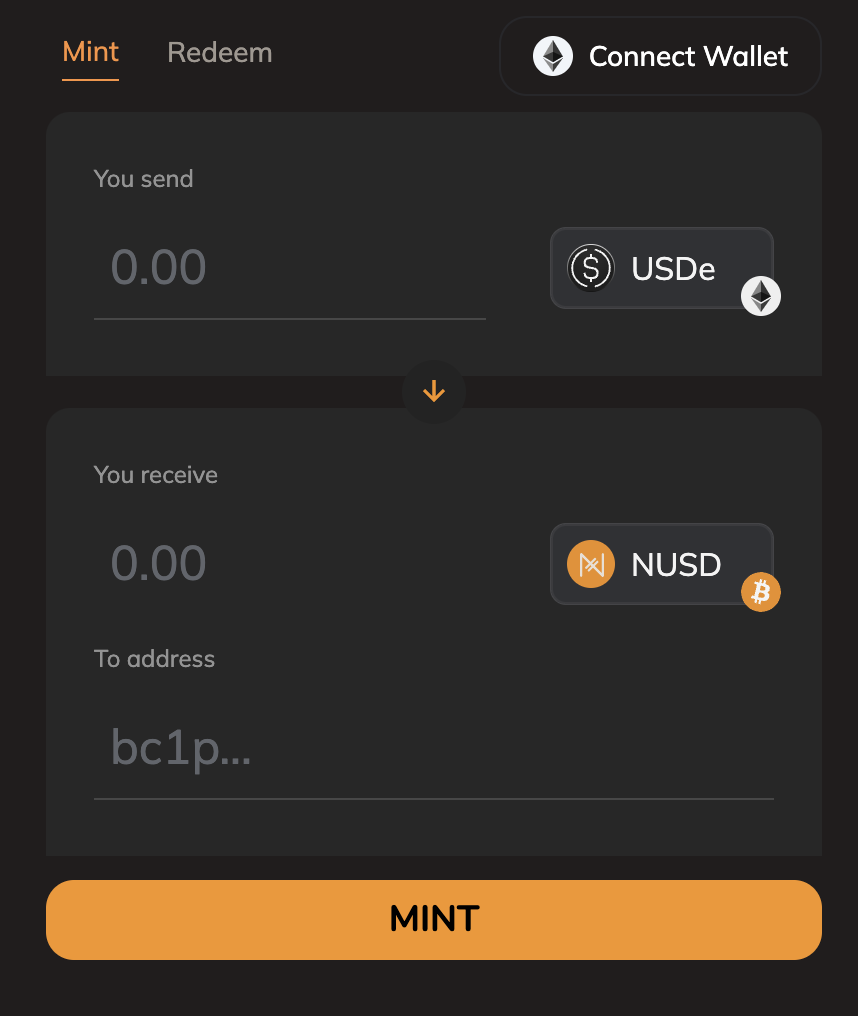
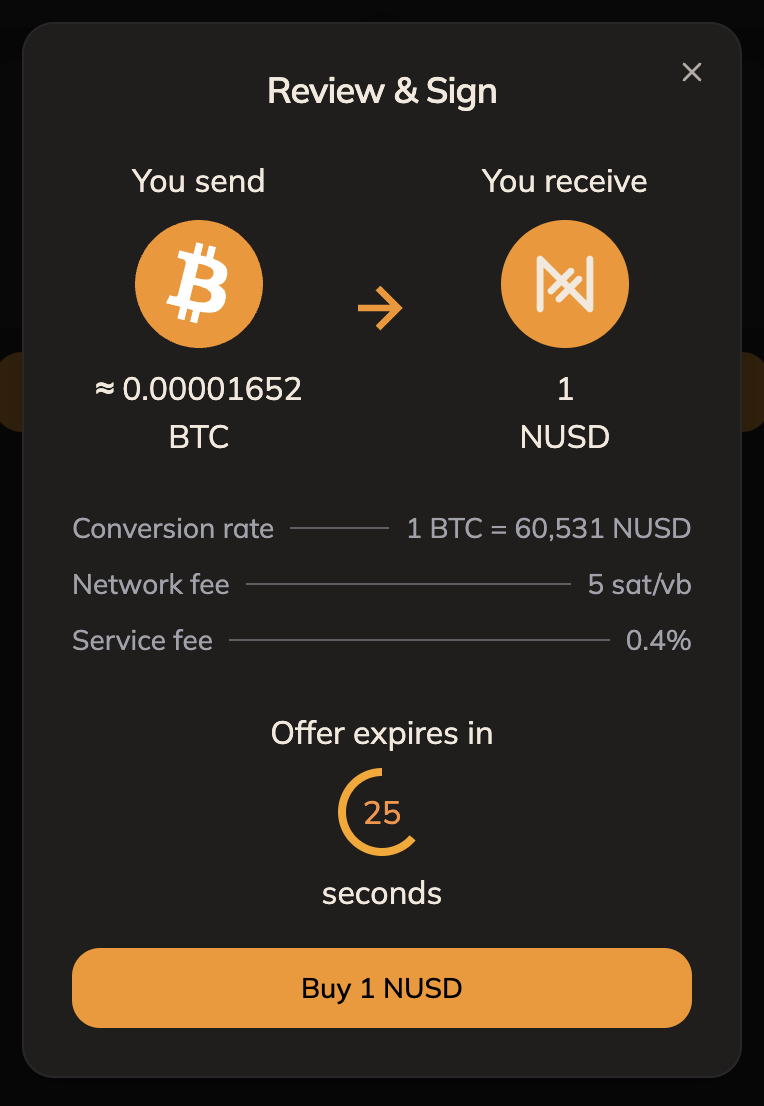
GITBOOK-81: No subject

diff --git a/roadmap/minting-and-redeeming.md b/roadmap/minting-and-redeeming.md
@@ -1,16 +1,18 @@
 # Minting & Redeeming
 
-Bamk.fi will open minting and redemptions for all onchain users.&#x20;
+## Phase 1 - LIVE
 
-* Mint NUSD: deposit sUSDe to Bamk.fi and receive the equivalent amount in NUSD
-* Redeem NUSD: deposit NUSD to Bamk.fi and receive the equivalent amount in sUSDe&#x20;
+* Mint NUSD: deposit USDe/USDT to Bamk.fi and receive the equivalent amount in NUSD
+  * [https://app.bamk.fi/swap/mint](minting-and-redeeming.md#phase-2)
+* Redeem NUSD: deposit NUSD to Bamk.fi and receive the equivalent amount in USDe&#x20;
+  * [https://app.bamk.fi/swap/redeem](minting-and-redeeming.md#phase-1-live)
 
-By reducing the barriers to minting and redeeming we open up opportunities for traders to arbitrage the peg, improving onchain liquidity for everyone.
-
-## Phase 2
+## Phase 2 - In progress
 
 * Mint NUSD: deposit BTC to Bamk.fi and receive the equivalent amount in NUSD
+  * [https://app.bamk.fi/swap/buy](minting-and-redeeming.md#phase-1-live)
 * Redeem NUSD: deposit NUSD to Bamk.fi and receive the equivalent amount in BTC
+  * Coming soon
 
 Phase 2 minting and redemptions will also introduce variable incentives depending on whether the funding rate is positive or negative. See [Negative Funding Rate Mitigation](https://bamkfi.gitbook.io/bamkfi-docs/roadmap/negative-funding-rate-mitigation).
 

diff --git a/resources/issuance.md b/resources/issuance.md
@@ -1,10 +1,4 @@
----
-description: Four distinct stages of the Nakamoto Dollar
----
-
-# NUSD Issuance Primer
-
-[Bamk.fi](http://bamk.fi) is the oldest and largest synthetic dollar protocol on Bitcoin, issuing the Nakamoto Dollar, _NUSD_.&#x20;
+# Issuance
 
 NUSD cycles through four distinct stages:
 
@@ -19,7 +13,7 @@ This article explains each of these stages and the associated onchain addresses 
 
 The majority of NUSD in circulation today is issued as [NUSD•NUSD•NUSD•NUSD](https://unisat.io/runes/detail/NUSD%E2%80%A2NUSD%E2%80%A2NUSD%E2%80%A2NUSD) on the Runes protocol. Due to limitations with the Runes protocol, the deployer of a Runes token is not able to have sole power to mint or burn supply like on Ethereum with smart contracts.&#x20;
 
-[Bamk.fi](http://bamk.fi) therefore chose a max supply of 2.1 quadrillion NUSD (2,100,000,000,000,000) that was 100% pre-mined and sent to Asigna multisig address:
+[Bamk.fi](http://bamk.fi) therefore chose a max supply of 2.1 quadrillion NUSD (2,100,000,000,000,000) that was 100% pre-mined and sent to [Asigna](https://asigna.io/) multisig address:
 
 {% hint style="info" %}
 bc1pfuluvkjcgzjdzjy42k3djkaw8a96dune2arcedhcml2h5sea6fdse9dajg

diff --git a/README.md b/README.md
@@ -1,8 +1,8 @@
 ---
-description: Nakamoto Dollar with a Bitcoin Bond
+description: Introducing the Nakamoto Dollar on Bitcoin
 ---
 
-# Bamkfi Overview
+# Bamk.fi Overview
 
 <figure><img src=".gitbook/assets/orangenaker-logo (8).png" alt=""><figcaption></figcaption></figure>
 
@@ -11,7 +11,7 @@ Bamk.fi protocol is the issuer of the Nakamoto Dollar, _NUSD_, a synthetic dolla
 * In phase 1, NUSD is backed 1:1 with USDe, and holding NUSD [accrues BAMK](bamk-of-nakamoto-dollar.md) every block
 * In phase 2, NUSD will be fully-backed by a delta-neutral Bitcoin position earning a native yield, the 'Bitcoin bond'
 
-NUSD is circulating on BRC20-5byte and the Runes protocol, with plans to issue on all viable protocols on Bitcoin L1.&#x20;
+NUSD is circulating on BRC20-5byte and the Runes protocol, with plans to issue on all viable protocols.&#x20;
 
 {% hint style="info" %}
 Website: [https://www.bamk.fi](https://www.bamk.fi/)

diff --git a/roadmap/phase1.md b/roadmap/phase1.md
@@ -1,14 +1,8 @@
 # Phase 1 - USDe Backing
 
-In order to bootstrap and accelerate our launch, Bamk.fi's NUSD is backed 1:1 by Ethena's USDe in phase 1. This is held as Staked USDe (sUSDe) in our multi-sig backing address:
-
-> [0xA284e606624e60d5e218cC2061bd85eD3E4f073f](https://etherscan.io/address/0xA284e606624e60d5e218cC2061bd85eD3E4f073f#tokentxns)
-
-Price of 1 sUSDe = $1.079
+In order to bootstrap and accelerate our launch, Bamk.fi's NUSD is backed 1:1 by Ethena's USDe in phase 1.
 
 Enabling this bootstrap allows us to immediately start growing TVL in an organic way. Phase 1 reliance on Ethena will be temporary as we further build out the infrastructure to execute our delta-neutral hedging program.
-
-The protocol in phase 1 is already generating revenue, approximately $600 per day, or $219,176 per year. \[Update 20/06/2024: Protocol is generating \~$2000 per day in revenue]
 
 ## First is First
 

diff --git a/how-tos/stake-nusd.md b/how-tos/stake-nusd.md
@@ -1,11 +1,13 @@
 # Stake NUSD
 
-<div align="left">
+Staking NUSD is not available yet.
+
+However anyone holding NUSD in their BTC wallet accrues deferred BAMK tokens. See [BAMK Incentives](https://bamkfi.gitbook.io/bamkfi-docs/bamk-of-nakamoto-dollar#bamk-season-1-incentives) for further details.
+
+Bamk.fi may utilize the [SNUSD•SNUSD•SNUSD•SNUSD](https://unisat.io/runes/detail/SNUSD%E2%80%A2SNUSD%E2%80%A2SNUSD%E2%80%A2SNUSD) rune for this purpose in the future.
+
+<div align="center">
 
 <figure><img src="../.gitbook/assets/sNUSD (1).png" alt="" width="188"><figcaption><p>sNUSD</p></figcaption></figure>
 
 </div>
-
-Staking NUSD is not available yet.&#x20;
-
-However anyone holding NUSD in their wallet will be accruing BAMK tokens. See [BAMK Incentives](https://bamkfi.gitbook.io/bamkfi-docs/bamk-of-nakamoto-dollar#bamk-season-1-incentives) for further details.

diff --git a/how-tos/mintnusd.md b/how-tos/mintnusd.md
@@ -1,7 +1,10 @@
 # Mint NUSD
 
-Minting NUSD using [USDe](https://www.coingecko.com/en/coins/ethena-usde) is now available at [bamk.fi/mint](https://bamk.fi/mint)
+Mint NUSD from BTC is now available at [bamk.fi/swap](https://app.bamk.fi/swap/buy): \
 
-Minimum size is 10,000 NUSD and settlement can take up to 24 hours.&#x20;
 
-<figure><img src="../.gitbook/assets/image (2).png" alt="" width="375"><figcaption></figcaption></figure>
+<figure><img src="../.gitbook/assets/image (4).png" alt="" width="375"><figcaption><p>Step 1) Enter desired BTC or NUSD amount</p></figcaption></figure>
+
+<figure><img src="../.gitbook/assets/image (2).png" alt="" width="375"><figcaption><p>Step 2) Review offer</p></figcaption></figure>
+
+<figure><img src="../.gitbook/assets/image (3).png" alt="" width="375"><figcaption><p>Step 3) Sign with wallet</p></figcaption></figure>

diff --git a/how-tos/buynusd-1.md b/how-tos/buynusd-1.md
@@ -1,0 +1,17 @@
+# Buy BAMK
+
+BAMK is available as a Runes ticker. You can buy BAMK on the following marketplaces:
+
+<figure><img src="../.gitbook/assets/bamk.png" alt="" width="188"><figcaption><p>BAMK</p></figcaption></figure>
+
+BAMK•OF•NAKAMOTO•DOLLAR (Runes)
+
+* Dotswap
+  * [BTC/BAMK](https://www.dotswap.app/swap#R\_BTC\_BAMK%E2%80%A2OF%E2%80%A2NAKAMOTO%E2%80%A2DOLLAR)
+  * [NUSD/BAMK](https://www.dotswap.app/swap#R\_NUSD%E2%80%A2NUSD%E2%80%A2NUSD%E2%80%A2NUSD\_BAMK%E2%80%A2OF%E2%80%A2NAKAMOTO%E2%80%A2DOLLAR)
+* [OKX](https://www.okx.com/web3/marketplace/runes/token/BAMK%E2%80%A2OF%E2%80%A2NAKAMOTO%E2%80%A2DOLLAR/840256:35)
+* [MagicEden](https://magiceden.io/runes/BAMK%E2%80%A2OF%E2%80%A2NAKAMOTO%E2%80%A2DOLLAR)
+* [UniSat](https://unisat.io/runes/market?tick=BAMK%E2%80%A2OF%E2%80%A2NAKAMOTO%E2%80%A2DOLLAR)
+
+
+

diff --git a/SUMMARY.md b/SUMMARY.md
@@ -14,15 +14,17 @@
 
 ## HOW TO'S
 
-* [Buy NUSD](how-tos/buynusd.md)
 * [Mint NUSD](how-tos/mintnusd.md)
+* [Buy NUSD](how-tos/buynusd.md)
 * [Redeem NUSD](how-tos/redeemnusd.md)
-* [NUSD-BRC20 <--> NUSD-Runes](how-tos/nusd-brc20-less-than-greater-than-nusd-runes.md)
+* [Bridge NUSD](how-tos/bridge-nusd.md)
 * [Stake NUSD](how-tos/stake-nusd.md)
+* [Buy BAMK](how-tos/buynusd-1.md)
+* [Stake BAMK](how-tos/stake-bamk.md)
 
 ## RESOURCES
 
-* [NUSD Issuance Primer](resources/nusd-issuance-primer.md)
+* [Issuance](resources/issuance.md)
 * [Risks](resources/risks.md)
 * [Reserves](resources/reserves.md)
 * [FAQs](resources/faqs.md)

diff --git a/resources/further-reading.md b/resources/further-reading.md
@@ -11,6 +11,5 @@ We also recommend reading the Ethena docs to get a deeper understanding of the l
 ## Other BAMK Community Links
 
 * [BAMKCurve](https://bamkchart.web.app/) - APY Calculator
-* [BAMKing](https://bamk.ing/) - NUSD orders across MagicEden, Unisat and OKX
 * [Nakamoto Dollar Bamk Paper](https://medium.com/coinmonks/nakamoto-dollar-bamk-paper-0b6554651dbd) - community written whitepaper&#x20;
 * [BAMK: Pioneering the Nakamoto Dollar on Bitcoin ](https://hackernoon.com/bamk-pioneering-the-nakamoto-dollar-on-bitcoin)- Hackernoon article&#x20;

diff --git a/how-tos/redeemnusd.md b/how-tos/redeemnusd.md
@@ -2,6 +2,8 @@
 
 Redeeming NUSD for USDe is available at [bamk.fi/swap/redeem](https://www.bamk.fi/swap/redeem).
 
-Minimum size is 10,000 NUSD and settlement can take up to 24 hours.&#x20;
+Minimum size is 10,000 NUSD and settlement can normally take up to 24 hours.
 
-<figure><img src="../.gitbook/assets/image (3).png" alt="" width="375"><figcaption></figcaption></figure>
+<figure><img src="../.gitbook/assets/image (3) (1).png" alt="" width="375"><figcaption></figcaption></figure>
+
+A native NUSD to BTC swap is coming soon.

diff --git a/bamk-of-nakamoto-dollar.md b/bamk-of-nakamoto-dollar.md
@@ -34,7 +34,7 @@ The APY figure shown on [https://www.bamk.fi/](https://www.bamk.fi/) is calculat
 
 <figure><img src=".gitbook/assets/Screenshot 2024-06-03 at 10.54.45.png" alt=""><figcaption></figcaption></figure>
 
-<figure><img src=".gitbook/assets/image.png" alt=""><figcaption><p>NUSD TVL Growth</p></figcaption></figure>
+<figure><img src=".gitbook/assets/image (5).png" alt=""><figcaption><p>NUSD TVL Growth</p></figcaption></figure>
 
 ## Dotswap Liquidity Pool BAMK Incentives
 

diff --git a/how-tos/stake-bamk.md b/how-tos/stake-bamk.md
@@ -1,0 +1,7 @@
+# Stake BAMK
+
+Staking BAMK is not available yet.
+
+Bamk.fi may utilize the [SBAMK•PROPHETS](https://unisat.io/runes/detail/SBAMK%E2%80%A2PROPHETS) rune for this purpose in the future.
+
+<figure><img src="../.gitbook/assets/sbamk.png" alt="" width="188"><figcaption><p>sBAMK</p></figcaption></figure>
